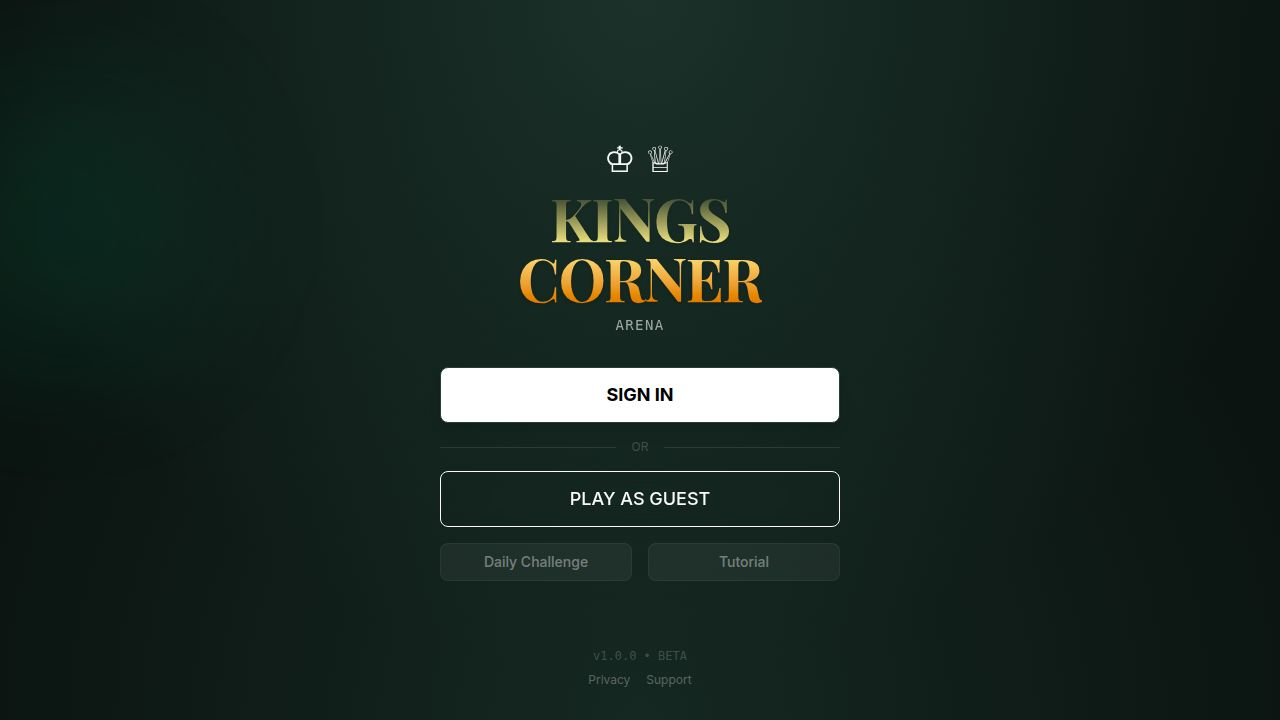
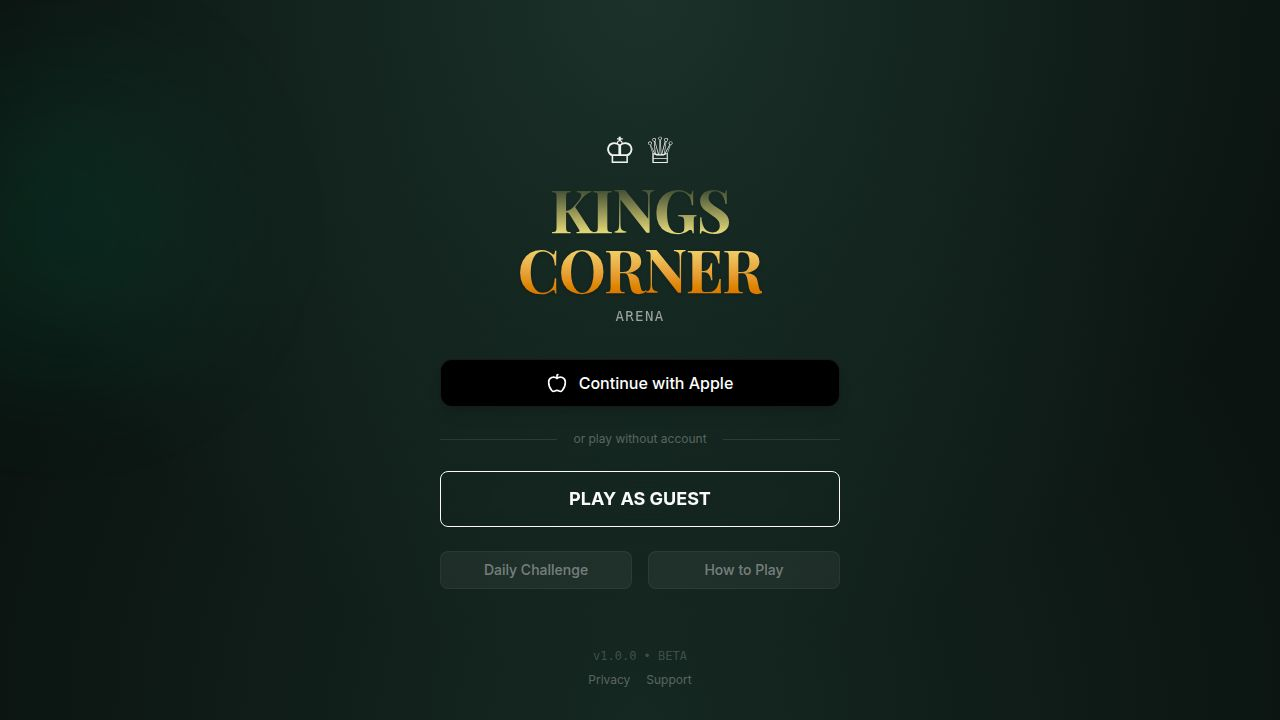
Add a dedicated login page to streamline the sign-in process
Introduce a new `/login` route that acts as an intermediary for the authentication flow, redirecting users to the backend login endpoint. This change also updates the home page to use the new route for initiating sign-in.

Replit-Commit-Author: Agent
Replit-Commit-Session-Id: d5378b40-41b7-457a-87af-9b85afee2616
Replit-Commit-Checkpoint-Type: full_checkpoint
Replit-Commit-Event-Id: bdd28462-062e-4271-a02d-f327e744e82b
Replit-Commit-Screenshot-Url: https://storage.googleapis.com/screenshot-production-us-central1/18b0b70c-1709-4d1e-b052-f3b0b4729645/d5378b40-41b7-457a-87af-9b85afee2616/IPC0Fu2
Replit-Helium-Checkpoint-Created: true

diff --git a/client/src/pages/Login.tsx b/client/src/pages/Login.tsx
@@ -1,0 +1,16 @@
+import { useEffect } from 'react';
+
+export default function Login() {
+  useEffect(() => {
+    window.location.href = '/api/login';
+  }, []);
+
+  return (
+    <div className="h-full flex items-center justify-center bg-[#1a3c34]">
+      <div className="text-white text-center">
+        <div className="text-xl mb-2">Redirecting to sign in...</div>
+        <div className="text-white/50 text-sm">If you're not redirected, <a href="/api/login" className="underline">click here</a></div>
+      </div>
+    </div>
+  );
+}

diff --git a/client/src/App.tsx b/client/src/App.tsx
@@ -9,6 +9,7 @@ import Game from "@/pages/Game";
 import Privacy from "@/pages/Privacy";
 import Support from "@/pages/Support";
 import Terms from "@/pages/Terms";
+import Login from "@/pages/Login";
 
 function Router() {
   return (
@@ -18,6 +19,7 @@ function Router() {
       <Route path="/privacy" component={Privacy} />
       <Route path="/support" component={Support} />
       <Route path="/terms" component={Terms} />
+      <Route path="/login" component={Login} />
       <Route component={NotFound} />
     </Switch>
   );

diff --git a/client/src/pages/Home.tsx b/client/src/pages/Home.tsx
@@ -128,7 +128,7 @@ export default function Home() {
           className="flex flex-col gap-4 w-full"
         >
           <button
-            onClick={() => window.location.href = '/api/login'}
+            onClick={() => setLocation('/login')}
             className="w-full h-12 flex items-center justify-center gap-3 bg-black text-white rounded-lg font-medium text-base hover:bg-black/90 transition-colors shadow-lg border border-white/10"
             data-testid="button-sign-in-apple"
           >
